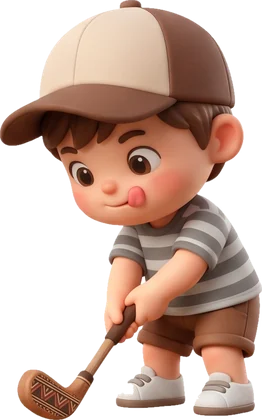
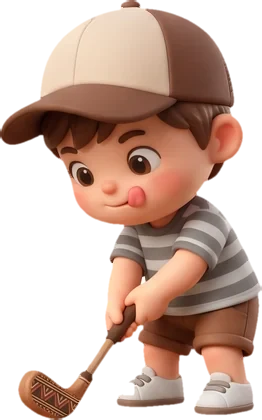
Cila: golfcu duvar arkasinda gizlenmez, sprite kenar halesi temizlendi, kusbakisinde figur buyur ve golgesi yumusar

diff --git a/index.html b/index.html
@@ -4241,15 +4241,17 @@ function sakin(fn) {
   Math.random = () => { ST_RND = (ST_RND + 0x6D2B79F5) >>> 0; let t = ST_RND; t = Math.imul(t ^ (t >>> 15), t | 1); t ^= t + Math.imul(t ^ (t >>> 7), t | 61); return ((t ^ (t >>> 14)) >>> 0) / 4294967296; };
   try { return fn(); } finally { Math.random = r; }
 }
-const ST = { ready: 0, pose: 'aim', spot: new THREE.Vector3(), swing: 0, cheerT: 0, phoneK: 1 };
+const ST = { ready: 0, pose: 'aim', spot: new THREE.Vector3(), swing: 0, cheerT: 0, phoneK: 1, top: 0 };
 sakin(() => {
-  const spr = (cx, cy) => { const s = new THREE.Sprite(new THREE.SpriteMaterial({ transparent: true, alphaTest: 0.08, depthWrite: true })); s.center.set(cx, cy); s.visible = false; s.frustumCulled = false; scene.add(s); return s; };
+  const spr = (cx, cy) => { const s = new THREE.Sprite(new THREE.SpriteMaterial({ transparent: true, alphaTest: 0.3, depthWrite: true })); s.center.set(cx, cy); s.visible = false; s.frustumCulled = false; scene.add(s); return s; };
   ST.golfer = spr(0.1, 0.1); ST.fairy = spr(0.5, 0.5); ST.flag = spr(0.07, 0.0);
   ST.golfer.renderOrder = ST.fairy.renderOrder = ST.flag.renderOrder = 2;
+  // cila: the golfer is drawn after every wall and never depth-clipped by them (ball against the back wall), purely visual
+  ST.golfer.material.depthTest = false; ST.golfer.material.depthWrite = false; ST.golfer.renderOrder = 6;
   // soft contact shadow under the golfer's feet
   const sc = document.createElement('canvas'); sc.width = sc.height = 64;
   const x = sc.getContext('2d'), gr = x.createRadialGradient(32, 32, 0, 32, 32, 32);
-  gr.addColorStop(0, 'rgba(80,50,35,0.45)'); gr.addColorStop(0.6, 'rgba(80,50,35,0.18)'); gr.addColorStop(1, 'rgba(80,50,35,0)');
+  gr.addColorStop(0, 'rgba(70,42,30,0.62)'); gr.addColorStop(0.55, 'rgba(70,42,30,0.28)'); gr.addColorStop(1, 'rgba(80,50,35,0)');
   x.fillStyle = gr; x.fillRect(0, 0, 64, 64);
   ST.shadow = new THREE.Mesh(new THREE.PlaneGeometry(1, 1).rotateX(-Math.PI / 2), new THREE.MeshBasicMaterial({ map: new THREE.CanvasTexture(sc), transparent: true, depthWrite: false, polygonOffset: true, polygonOffsetFactor: -2, polygonOffsetUnits: -2 }));
   ST.shadow.visible = false; scene.add(ST.shadow);
@@ -4274,7 +4276,8 @@ function stilSync(dt) {
   ST.golfer.visible = ST.fairy.visible = ST.flag.visible = ST.shadow.visible = !!on;
   if (!on) return;
   if (flagMesh) flagMesh.visible = false;
-  const b = game.ball, k = (Math.min(innerWidth, innerHeight) < 600 ? 1.45 : 1) * (holeGroup ? holeGroup.scale.x : 1);
+  ST.top += ((game.top ? 1 : 0) - ST.top) * Math.min(1, dt * 5); // eased bird's-eye factor: figures grow and ground themselves with a bigger shadow
+  const b = game.ball, k = (Math.min(innerWidth, innerHeight) < 600 ? 1.45 : 1) * (holeGroup ? holeGroup.scale.x : 1) * (1 + 0.5 * ST.top);
   _sr.setFromMatrixColumn(camera.matrixWorld, 0); _sr.y = 0; if (_sr.lengthSq() < 1e-6) _sr.set(1, 0, 0); _sr.normalize();
   const gy = (x, z, f) => course.height(x, z) ?? f;
   // golfer: stands at the ball while it rests, stays where he hit it while it rolls, cheers when it drops
@@ -4295,7 +4298,7 @@ function stilSync(dt) {
   G.scale.set(W, H, 1);
   const fx0 = aim ? (0.62 - 0.1) * W : 0; // feet: about 62 % across the aiming sprite
   const sx = G.position.x + _sr.x * fx0, sz = G.position.z + _sr.z * fx0;
-  ST.shadow.position.set(sx, gy(sx, sz, ST.spot.y) + 0.012, sz); ST.shadow.scale.set(W * 0.9, 1, W * 0.55);
+  ST.shadow.position.set(sx, gy(sx, sz, ST.spot.y) + 0.012, sz); ST.shadow.scale.set(W * (0.9 + 0.35 * ST.top), 1, W * (0.55 + 0.3 * ST.top));
   // flag over the cup, swaying with the wind like the old pennant
   const c = course.def.cup, ch = gy(c[0], c[1], 0), F = ST.flag, fh = ST_H.flag * Math.max(1, k * 0.85);
   F.scale.set(fh * (ST.tex.bayrak.userData.asp || 0.35), fh, 1); F.position.set(c[0], ch, c[1]);

diff --git a/CREDITS.md b/CREDITS.md
@@ -28,3 +28,8 @@ the scripts in `assets/src/` by Claude Fable 5.1 and are MIT like the rest of th
 - `assets/3d/kil-detay.webp`, `cimen-detay.webp`: detail maps cut from a frame of the game's own song video (fairy-chimney
   clay and putting green), high-passed and mirrored into seamless tiles locally. They replace tuff_detail.jpg and
   grass_detail.jpg in the game (those files stay in the repo, unused except the tuff normal map).
+
+## Cila (24.11.2026)
+
+- The four sprite webps in `assets/3d/` were defringed locally (alpha matte eroded about 1 px and feathered, edge colour taken from the
+  nearest solid pixel; PIL + scipy). No new images were generated.
